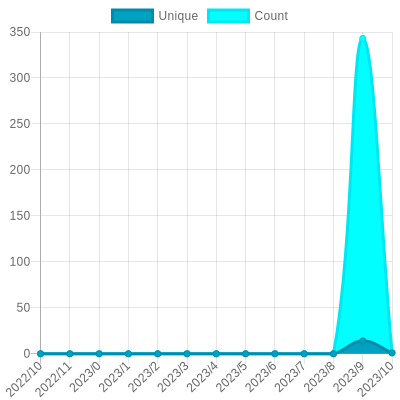
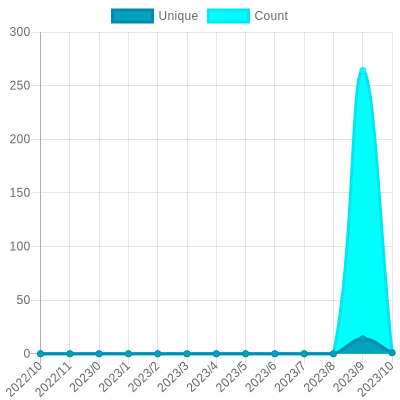
Update views

diff --git a/readme/18893494/year.md b/readme/18893494/year.md
@@ -37,7 +37,7 @@
 			<code>14</code>
 		</td>
 		<td>
-			<code>343</code>
+			<code>264</code>
 		</td>
 	</tr>
 	<tr>
@@ -164,7 +164,7 @@
 </table>
 
 </details>
-<small><i>Last updated on 2022/11/4 6:14 AM UTC</i></small>
+<small><i>Last updated on 2022/11/4 12:23 PM UTC</i></small>
 
 ## ✂Copy and 📋 Paste
 ### SVG Badge

diff --git a/README.md b/README.md
@@ -37,7 +37,7 @@ The project created and maintained by [gayanvoice](https://github.com/gayanvoice
 	</tr>
 </table>
 
-<small><i>Last updated on 2022/11/4 6:14 AM UTC</i></small>
+<small><i>Last updated on 2022/11/4 12:23 PM UTC</i></small>
 
 ## ✂Copy and 📋 Paste
 ### Total Views Badge
